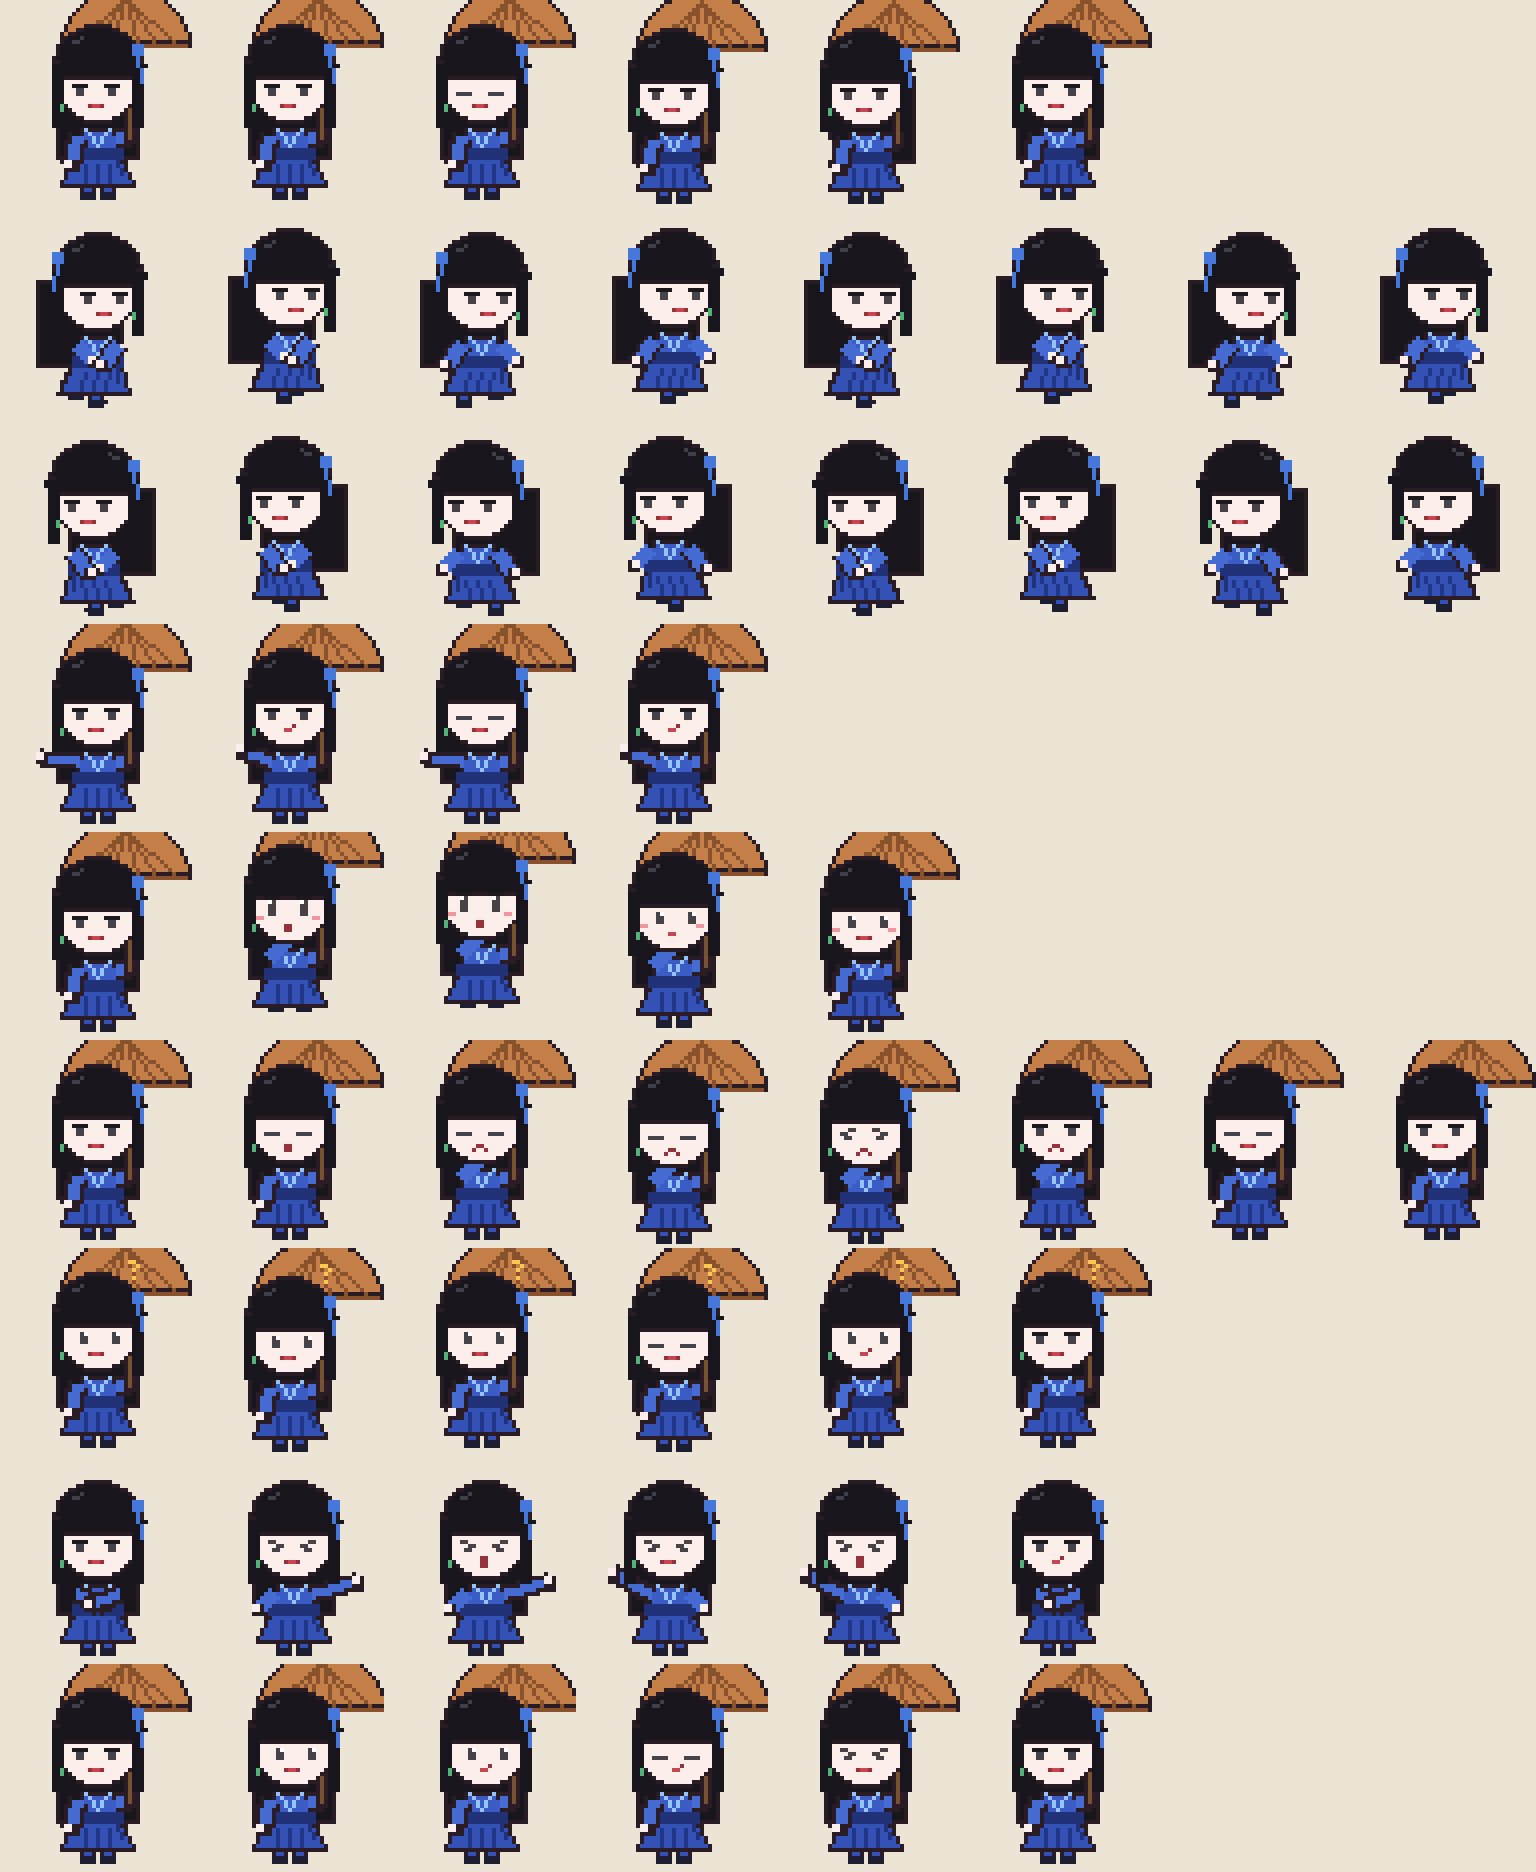
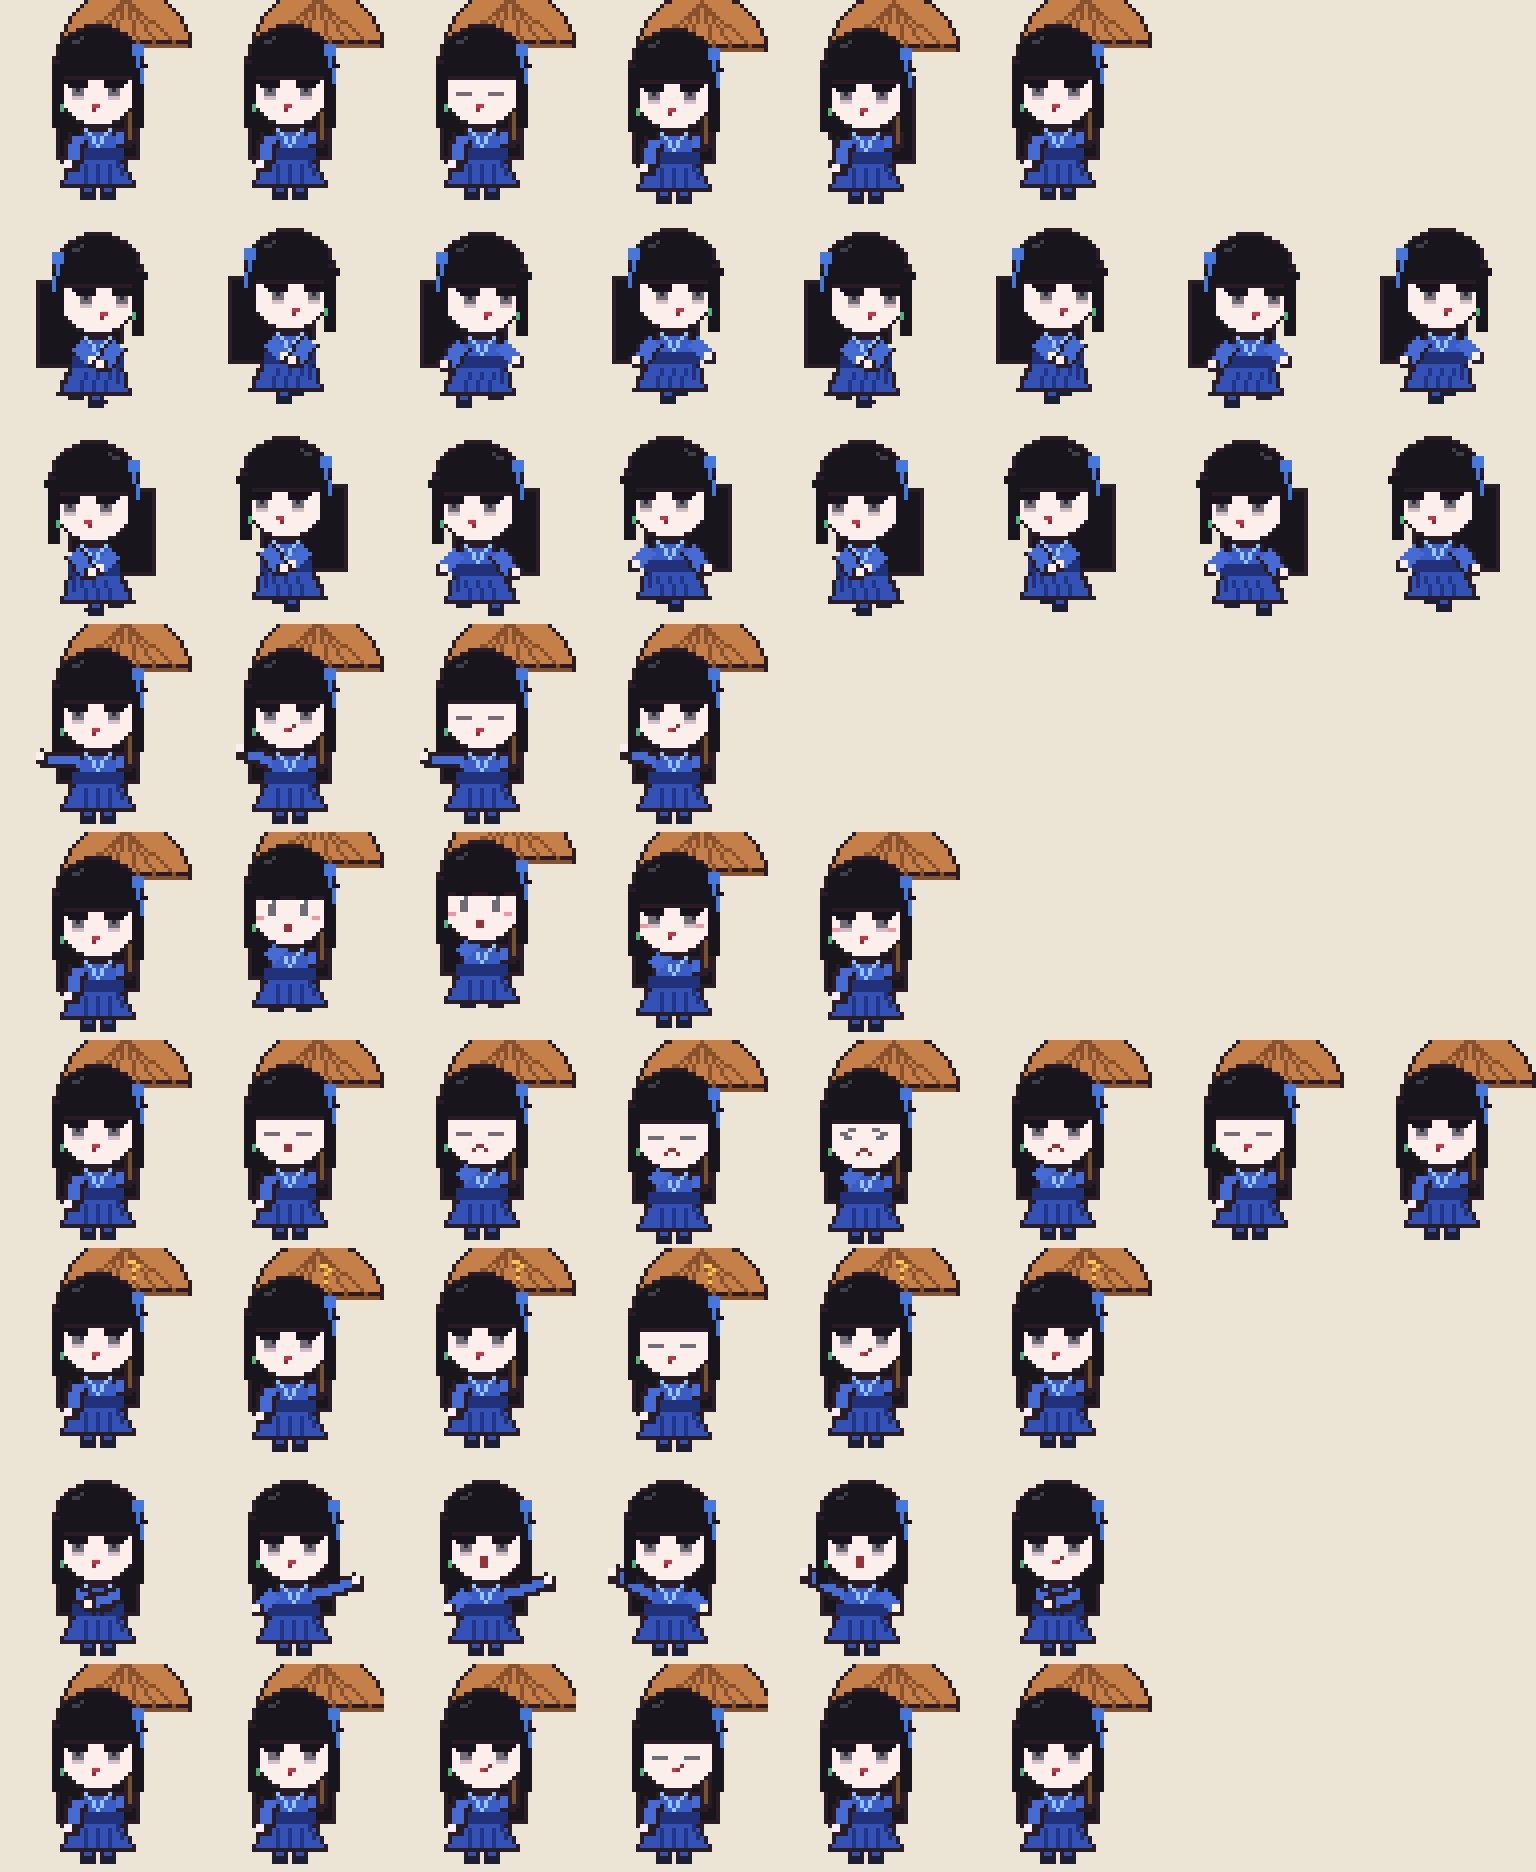
小師妹改成側分露額的長髮，夏侯蘭改成大而無神的灰眸、濃睫毛與紅唇
Claude-Session: https://claude.ai/code/session_014Ug96dnPv181rpAqSNBU9C

diff --git a/tools/build_sprites.py b/tools/build_sprites.py
@@ -136,7 +136,9 @@ CHARACTERS["xiahoulan"] = {
     # 齊瀏海長直髮、側邊藍色髮繩與翠綠耳墜、藍色寬袖長衣、淺藍內領、油紙傘
     "hair": (24, 22, 28, 255), "hair_hi": (64, 62, 74, 255),
     "skin": (252, 238, 234, 255), "skin_sh": (228, 204, 200, 255),
-    "eye": (70, 66, 72, 255), "lid": (28, 24, 30, 255),
+    "eye": (112, 108, 118, 255), "lid": (24, 20, 28, 255),  # 灰色無神的眼睛
+    "pupil": (46, 42, 52, 255), "shadow": (214, 186, 196, 255),
+    "mature": True,
     "cloth": (58, 92, 196, 255), "cloth_sh": (38, 62, 150, 255),
     "accent": (52, 82, 182, 255), "accent_sh": (34, 54, 136, 255),
     "collar": (150, 196, 246, 255),
@@ -144,7 +146,7 @@ CHARACTERS["xiahoulan"] = {
     "band": (70, 120, 220, 255), "earring": (80, 180, 120, 255),
     "sleeve": (70, 108, 212, 255), "wide_sleeves": True,
     "shoe": (30, 30, 50, 255), "leg": (52, 82, 182, 255),
-    "blush": (240, 150, 160, 255), "lips": (200, 70, 80, 255),
+    "blush": (240, 150, 160, 255), "lips": (196, 54, 70, 255), "lips_sh": (150, 40, 56, 255),
     "outfit": "dress", "head": "hime",
     "long_hair": True, "height_drop": -1, "tall": 1, "default_eyes": "dull",
 }
@@ -241,6 +243,8 @@ def draw_frame(cid, pose):
     eyes = pose["eyes"] or c["default_eyes"]
     if eyes == "squint" and c["default_eyes"] == "drowsy":
         eyes = "drowsy"  # 小竹的「兇」其實是睏
+    if c["default_eyes"] == "dull" and eyes in ("open", "squint", "side"):
+        eyes = "dull_side" if eyes == "side" else "dull"  # 夏侯蘭睜眼時一律是無神的眼睛
 
     hx = 24 + dx + pose["tilt"]  # 頭中心
     hy = 19 + dy
@@ -502,17 +506,22 @@ def draw_frame(cid, pose):
 
     # 頭
     hw = 11 if rnd else 10  # 小竹臉頰比較圓
-    p.ell(hx - hw, hy - 8, hx + hw, hy + 12, c["skin"], OUTLINE)
-    # 瀏海
+    chin = 13 if c.get("mature") else 12  # 夏侯蘭下巴稍長、臉型成熟
+    p.ell(hx - hw, hy - 8, hx + hw, hy + chin, c["skin"], OUTLINE)
     hair = c["hair"]
-    p.d.chord([hx - 11, hy - 12, hx + 11, hy + 8], 180, 360, fill=hair, outline=OUTLINE)
-    fringe_y = hy - 2
-    for i, fx_ in enumerate(range(hx - 9, hx + 10, 3)):
-        h = 3 if i % 2 == 0 else 2
-        p.poly([(fx_, fringe_y), (fx_ + 3, fringe_y), (fx_ + 1 + (1 if face_r else 0), fringe_y + h)], hair)
-    # 側髮
-    p.rect(hx - 11, hy - 2, hx - 9, hy + 7, hair)
-    p.rect(hx + 9, hy - 2, hx + 11, hy + 7, hair)
+    if c.get("head") == "locks":
+        # 小師妹：側分、露出額頭，不畫整排瀏海
+        p.d.chord([hx - 11, hy - 12, hx + 11, hy + 3], 180, 360, fill=hair, outline=OUTLINE)
+    else:
+        # 瀏海
+        p.d.chord([hx - 11, hy - 12, hx + 11, hy + 8], 180, 360, fill=hair, outline=OUTLINE)
+        fringe_y = hy - 2
+        for i, fx_ in enumerate(range(hx - 9, hx + 10, 3)):
+            h = 3 if i % 2 == 0 else 2
+            p.poly([(fx_, fringe_y), (fx_ + 3, fringe_y), (fx_ + 1 + (1 if face_r else 0), fringe_y + h)], hair)
+        # 側髮
+        p.rect(hx - 11, hy - 2, hx - 9, hy + 7, hair)
+        p.rect(hx + 9, hy - 2, hx + 11, hy + 7, hair)
     p.px(hx - 6, hy - 8, c["hair_hi"])
     p.px(hx - 5, hy - 8, c["hair_hi"])
     p.px(hx - 4, hy - 9, c["hair_hi"])
@@ -530,12 +539,19 @@ def draw_frame(cid, pose):
         if "forehead" in c:  # 額間的紅色花鈿
             p.px(hx + look, hy - 2, c["forehead"])
     elif c.get("head") == "locks":
-        # 側分瀏海，長長的鬢髮垂到胸前
+        # 依官方設定圖：在一側分線、露出額頭，一大綹頭髮斜斜蓋過另一側額角，
+        # 兩側長鬢髮順著臉頰垂到胸前，髮尾往外散開
         k = -1 if face_r else 1
-        p.poly([(hx - 10 * k, hy - 3), (hx + 2 * k, hy - 3), (hx - 6 * k, hy + 2)], hair)
-        p.rect(hx - 11, hy - 2, hx - 9, hy + 15, hair)
-        p.rect(hx + 9, hy - 2, hx + 11, hy + 15, hair)
-        p.line([(hx - 10, hy + 2), (hx - 10, hy + 13)], c["hair_hi"])
+        part = hx - 4 * k
+        p.poly([(part, hy - 6), (hx + 11 * k, hy - 5), (hx + 10 * k, hy + 4), (hx + 6 * k, hy - 1),
+                (hx + 1 * k, hy - 3)], hair)  # 蓋過額角的一綹
+        p.poly([(part, hy - 6), (hx - 11 * k, hy - 5), (hx - 10 * k, hy + 1), (hx - 7 * k, hy - 3)], hair)
+        p.line([(part, hy - 7), (part + k, hy - 5)], c["hair_hi"])  # 分線
+        for side in (-1, 1):
+            x0 = hx + 10 * side
+            p.poly([(x0 - side, hy - 3), (x0 + side * 2, hy - 2), (x0 + side * 3, hy + 17),
+                    (x0 + side * 1, hy + 19), (x0 - side * 2, hy + 14), (x0 - side * 2, hy + 4)], hair, OUTLINE)
+        p.line([(hx - 11, hy + 2), (hx - 12, hy + 14)], c["hair_hi"])
     elif c.get("head") == "ribbon":
         # 頭頂髮髻插著青色髮簪，簪尾垂著青色髮帶
         k = -1 if face_r else 1
@@ -612,10 +628,16 @@ def draw_frame(cid, pose):
             p.line([(x - 1, ey), (x + 2, ey)], c["lid"])
             p.rect(x, ey + 1, x + 1, ey + 2, eye)
             p.px(x + 1, ey + 1, white)
-    elif eyes == "dull":  # 夏侯蘭：眼皮半垂、沒有光的眼睛
-        for x in (lx, rx):
-            p.line([(x - 1, ey), (x + 2, ey)], c.get("lid", eye))
-            p.rect(x, ey + 1, x + 1, ey + 2, eye)
+    elif eyes in ("dull", "dull_side"):  # 夏侯蘭：大而無神的眼睛，眼皮半垂、濃密睫毛往外挑，沒有光
+        lid = c.get("lid", eye)
+        po = 1 if eyes == "dull_side" else 0  # 斜眼時瞳孔偏向一側
+        for x, out in ((lx - 1, -1), (rx, 1)):
+            p.line([(x - 1, ey), (x + 3, ey)], lid)  # 粗重的上睫毛
+            p.line([(x - 1, ey - 1), (x + 3, ey - 1)], lid)
+            p.px(x + (4 if out > 0 else -2), ey - 1, lid)  # 眼尾上挑
+            p.rect(x, ey + 1, x + 2, ey + 2, eye)  # 灰色瞳孔，沒有反光
+            p.px(x + 1 + po, ey + 1, c.get("pupil", lid))
+            p.line([(x, ey + 3), (x + 2, ey + 3)], c.get("shadow", eye))  # 眼下陰影
     elif eyes == "side":  # 害羞地往旁邊看
         for x in (lx, rx):
             p.rect(x + 1, ey, x + 2, ey + 2, eye)
@@ -631,7 +653,12 @@ def draw_frame(cid, pose):
     mx, my = hx - 1 + look, hy + 8
     m = pose["mouth"]
     mouth = (150, 50, 60, 255)
-    if m == "smile":
+    if "lips" in c and m in ("flat", "small"):
+        m = "lips"
+    if m == "lips":  # 小巧的紅唇
+        p.line([(mx, my), (mx + 1, my)], c["lips"])
+        p.px(mx, my + 1, c.get("lips_sh", c["lips"]))
+    elif m == "smile":
         p.px(mx - 1, my - 1, mouth); p.px(mx, my, mouth); p.px(mx + 1, my, mouth); p.px(mx + 2, my - 1, mouth)
     elif m == "grin":
         p.rect(mx - 1, my - 1, mx + 2, my, mouth); p.line([(mx - 1, my - 1), (mx + 2, my - 1)], white)
@@ -659,8 +686,8 @@ def draw_frame(cid, pose):
     if c.get("bells"):  # 頸上繫著鈴鐺的細繩（鈴鐺從不作響）
         p.line([(hx - 4, hy + 12), (hx + 4, hy + 12)], (60, 40, 40, 255))
         p.ell(hx - 1, hy + 12, hx + 1, hy + 14, (232, 196, 80, 255), OUTLINE)
-    if "lips" in c and m in ("flat", "smirk", "small"):
-        p.line([(mx, my), (mx + 1, my)], c["lips"])
+    if "lips" in c and m == "smirk":
+        p.px(mx, my, c["lips"])
 
     if "kerchief" in c:  # 領巾
         p.poly([(hx - 4, hy + 11), (hx + 4, hy + 11), (hx, hy + 15)], c["kerchief"], OUTLINE)
